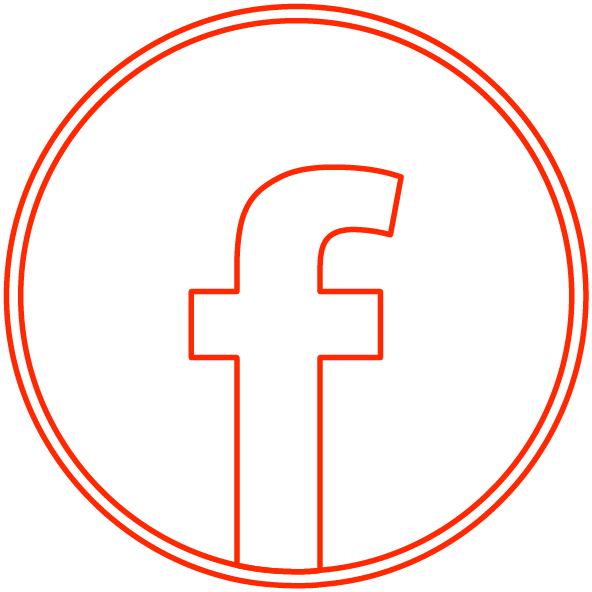
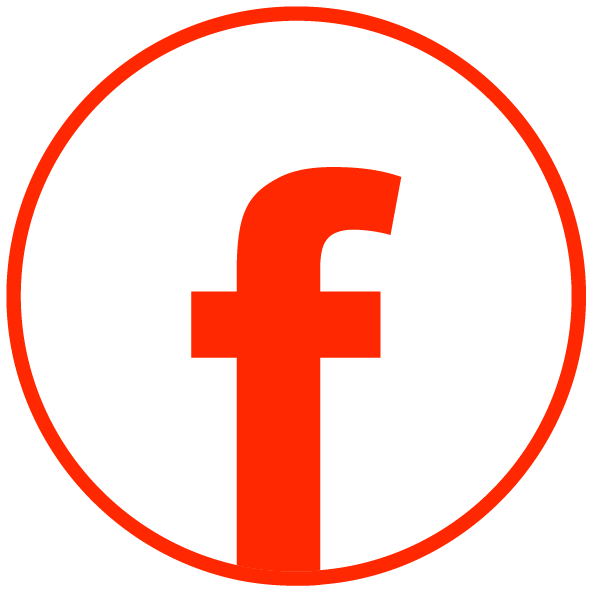
email assets mods

Changed region(s): [[0.0, 0.0, 1.0, 1.0]]

diff --git a/components/Email_Signature.html b/components/Email_Signature.html
@@ -32,7 +32,7 @@
 														style="text-align: center;"
 													>
 														<img
-															src="https://www.gulfmotorcycles.com/images/logo-dark.png"
+															src="https://www.gulfmotorcycles.com/images/email/logo.gif"
 															role="presentation"
 															width="130"
 															class="sc-cHGsZl bHiaRe"
@@ -58,14 +58,15 @@
 																			href="https://www.facebook.com/gulfmotorcyclerepairs"
 																			color="#ff2800"
 																			class="sc-hzDkRC kpsoyz"
-																			style="display: inline-block; padding: 0px; background-color: rgb(255, 40, 0);"
+																			style="display: inline-block; padding: 0px; "
 																			><img
-																				src="https://cdn2.hubspot.net/hubfs/53/tools/email-signature-generator/icons/facebook-icon-2x.png"
+																				src="https://www.gulfmotorcycles.com/images/email/fb.png"
 																				alt="facebook"
 																				color="#ff2800"
+																				width="24"
 																				height="24"
 																				class="sc-bRBYWo ccSRck"
-																				style="background-color: rgb(255, 40, 0); max-width: 135px; display: block;"
+																				style=" max-width: 135px; display: block;"
 																		/></a>
 																	</td>
 																	<td width="5"><div></div></td>
@@ -74,14 +75,15 @@
 																			href="https://twitter.com/gulfrepairs"
 																			color="#ff2800"
 																			class="sc-hzDkRC kpsoyz"
-																			style="display: inline-block; padding: 0px; background-color: rgb(255, 40, 0);"
+																			style="display: inline-block; padding: 0px; "
 																			><img
-																				src="https://cdn2.hubspot.net/hubfs/53/tools/email-signature-generator/icons/twitter-icon-2x.png"
+																				src="https://www.gulfmotorcycles.com/images/email/tw.png"
 																				alt="twitter"
 																				color="#ff2800"
+																				width="24"
 																				height="24"
 																				class="sc-bRBYWo ccSRck"
-																				style="background-color: rgb(255, 40, 0); max-width: 135px; display: block;"
+																				style=" max-width: 135px; display: block;"
 																		/></a>
 																	</td>
 																	<td width="5"><div></div></td>
@@ -90,14 +92,15 @@
 																			href="https://www.instagram.com/gulfrepairs/"
 																			color="#ff2800"
 																			class="sc-hzDkRC kpsoyz"
-																			style="display: inline-block; padding: 0px; background-color: rgb(255, 40, 0);"
+																			style="display: inline-block; padding: 0px; "
 																			><img
-																				src="https://cdn2.hubspot.net/hubfs/53/tools/email-signature-generator/icons/instagram-icon-2x.png"
+																				src="https://www.gulfmotorcycles.com/images/email/insta.png"
 																				alt="instagram"
 																				color="#ff2800"
+																				width="24"
 																				height="24"
 																				class="sc-bRBYWo ccSRck"
-																				style="background-color: rgb(255, 40, 0); max-width: 135px; display: block;"
+																				style=" max-width: 135px; display: block;"
 																		/></a>
 																	</td>
 																	<td width="5"><div></div></td>
@@ -116,7 +119,7 @@
 											class="sc-fBuWsC eeihxG"
 											style="margin: 0px; font-size: 18px; color: rgb(0, 0, 0);"
 										>
-											<span>Faizan</span><span>&nbsp;</span><span>Shaikh</span>
+											<span>Mohammed</span><span>&nbsp;</span><span>Ejaz</span>
 										</h3>
 										<p
 											color="#000000"
@@ -124,8 +127,9 @@
 											class="sc-fMiknA bxZCMx"
 											style="margin: 0px; color: rgb(0, 0, 0); font-size: 14px; line-height: 22px;"
 										>
-											<span>Manager</span><span>&nbsp;|&nbsp;</span
-											><span>Operations</span>
+											<span>Accounts</span>
+											<!-- <span>&nbsp;|&nbsp;</span
+											><span>Service</span> -->
 										</p>
 										<p
 											color="#000000"
@@ -181,13 +185,13 @@
 																			color="#434343"
 																			width="11"
 																			class="sc-jlyJG bbyJzT"
-																			style="display: block; background-color: rgb(67, 67, 67);"
+																			style="display: block; "
 																			><img
-																				src="https://cdn2.hubspot.net/hubfs/53/tools/email-signature-generator/icons/phone-icon-2x.png"
+																				src="https://www.gulfmotorcycles.com/images/email/phone.png"
 																				color="#434343"
 																				width="13"
 																				class="sc-iRbamj blSEcj"
-																				style="display: block; background-color: rgb(67, 67, 67);"
+																				style="display: block; "
 																		/></span>
 																	</td>
 																</tr>
@@ -204,7 +208,7 @@
 														>
 														|
 														<a
-															href="tel:05 6764 4951"
+															href="tel:0567644951"
 															color="#000000"
 															class="sc-gipzik iyhjGb"
 															style="text-decoration: none; color: rgb(0, 0, 0); font-size: 12px;"
@@ -227,13 +231,13 @@
 																			color="#434343"
 																			width="11"
 																			class="sc-jlyJG bbyJzT"
-																			style="display: block; background-color: rgb(67, 67, 67);"
+																			style="display: block; "
 																			><img
-																				src="https://cdn2.hubspot.net/hubfs/53/tools/email-signature-generator/icons/email-icon-2x.png"
+																				src="https://www.gulfmotorcycles.com/images/email/email.png"
 																				color="#434343"
 																				width="13"
 																				class="sc-iRbamj blSEcj"
-																				style="display: block; background-color: rgb(67, 67, 67);"
+																				style="display: block; "
 																		/></span>
 																	</td>
 																</tr>
@@ -242,11 +246,11 @@
 													</td>
 													<td style="padding: 0px;">
 														<a
-															href="mailto:faizan@gulfmotorcycles.com"
+															href="mailto:accounts@gulfmotorcycles.com"
 															color="#000000"
 															class="sc-gipzik iyhjGb"
 															style="text-decoration: none; color: rgb(0, 0, 0); font-size: 12px;"
-															><span>faizan@gulfmotorcycles.com</span></a
+															><span>accounts@gulfmotorcycles.com</span></a
 														>
 													</td>
 												</tr>
@@ -265,13 +269,13 @@
 																			color="#434343"
 																			width="11"
 																			class="sc-jlyJG bbyJzT"
-																			style="display: block; background-color: rgb(67, 67, 67);"
+																			style="display: block; "
 																			><img
-																				src="https://cdn2.hubspot.net/hubfs/53/tools/email-signature-generator/icons/link-icon-2x.png"
+																				src="https://www.gulfmotorcycles.com/images/email/motorcycle-repairs-dubai.png"
 																				color="#434343"
 																				width="13"
 																				class="sc-iRbamj blSEcj"
-																				style="display: block; background-color: rgb(67, 67, 67);"
+																				style="display: block; "
 																		/></span>
 																	</td>
 																</tr>
@@ -280,7 +284,7 @@
 													</td>
 													<td style="padding: 0px;">
 														<a
-															href="//gulfmotorcycles.com"
+															href="https://gulfmotorcycles.com"
 															color="#000000"
 															class="sc-gipzik iyhjGb"
 															style="text-decoration: none; color: rgb(0, 0, 0); font-size: 12px;"
@@ -303,13 +307,13 @@
 																			color="#434343"
 																			width="11"
 																			class="sc-jlyJG bbyJzT"
-																			style="display: block; background-color: rgb(67, 67, 67);"
+																			style="display: block; "
 																			><img
-																				src="https://cdn2.hubspot.net/hubfs/53/tools/email-signature-generator/icons/address-icon-2x.png"
+																				src="https://www.gulfmotorcycles.com/images/email/location-pin.png"
 																				color="#434343"
 																				width="13"
 																				class="sc-iRbamj blSEcj"
-																				style="display: block; background-color: rgb(67, 67, 67);"
+																				style="display: block; "
 																		/></span>
 																	</td>
 																</tr>

diff --git a/pages/_app.js b/pages/_app.js
@@ -54,7 +54,7 @@ export default function App({ Component, pageProps }) {
           name="twitter:card"
           content="Gulf Motorcycles - Repairs &amp; Rentals"
         />
-        <link rel="canonical" href="https://gulfmotorcycles.com/"></link>
+        <link rel="canonical" href="https://www.gulfmotorcycles.com/"></link>
 
         <meta name="mobile-web-app-capable" content="yes" />
 
